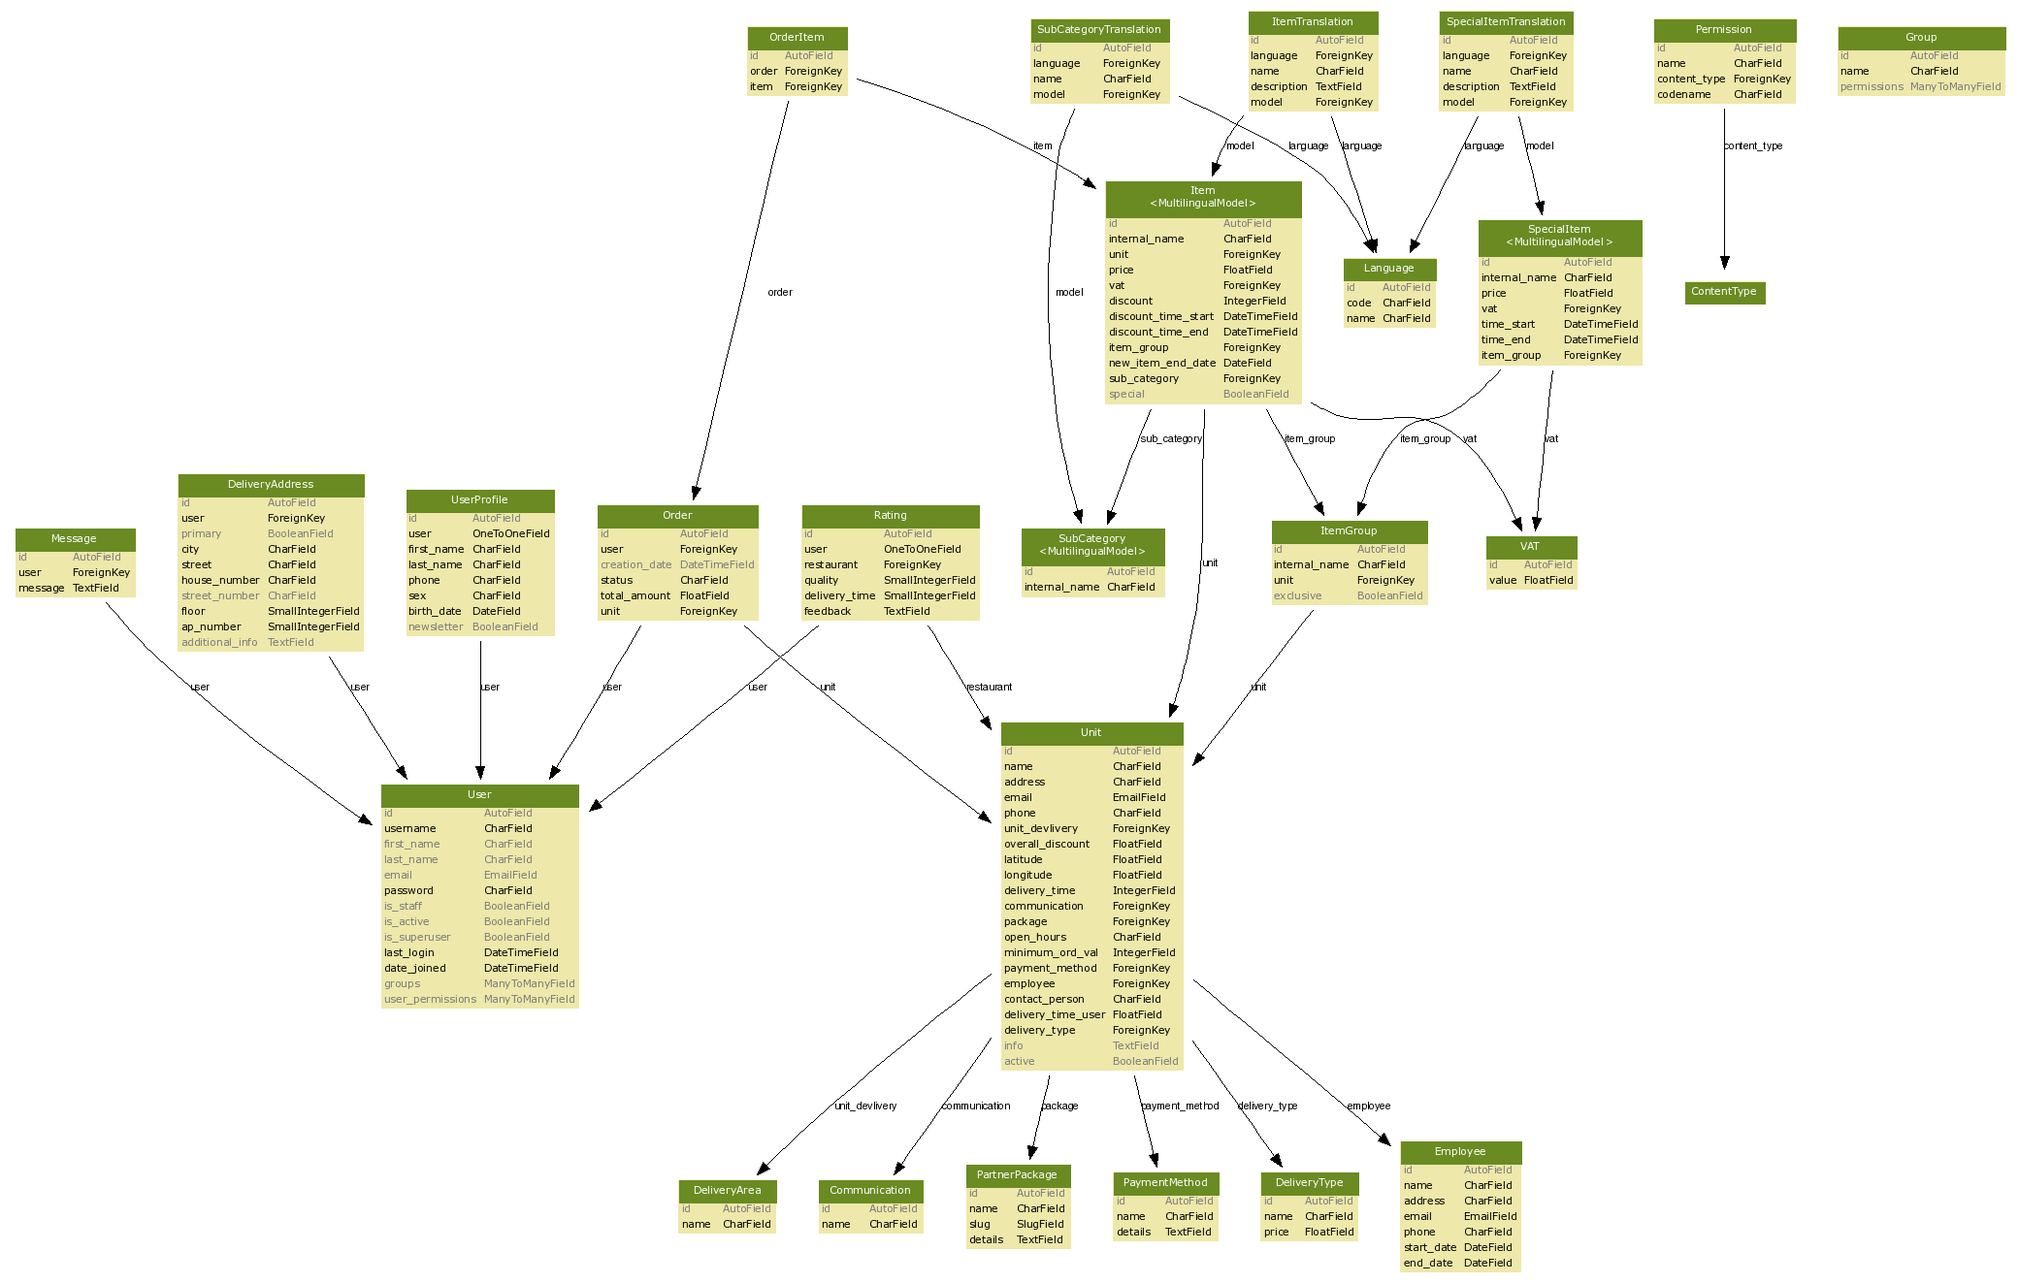
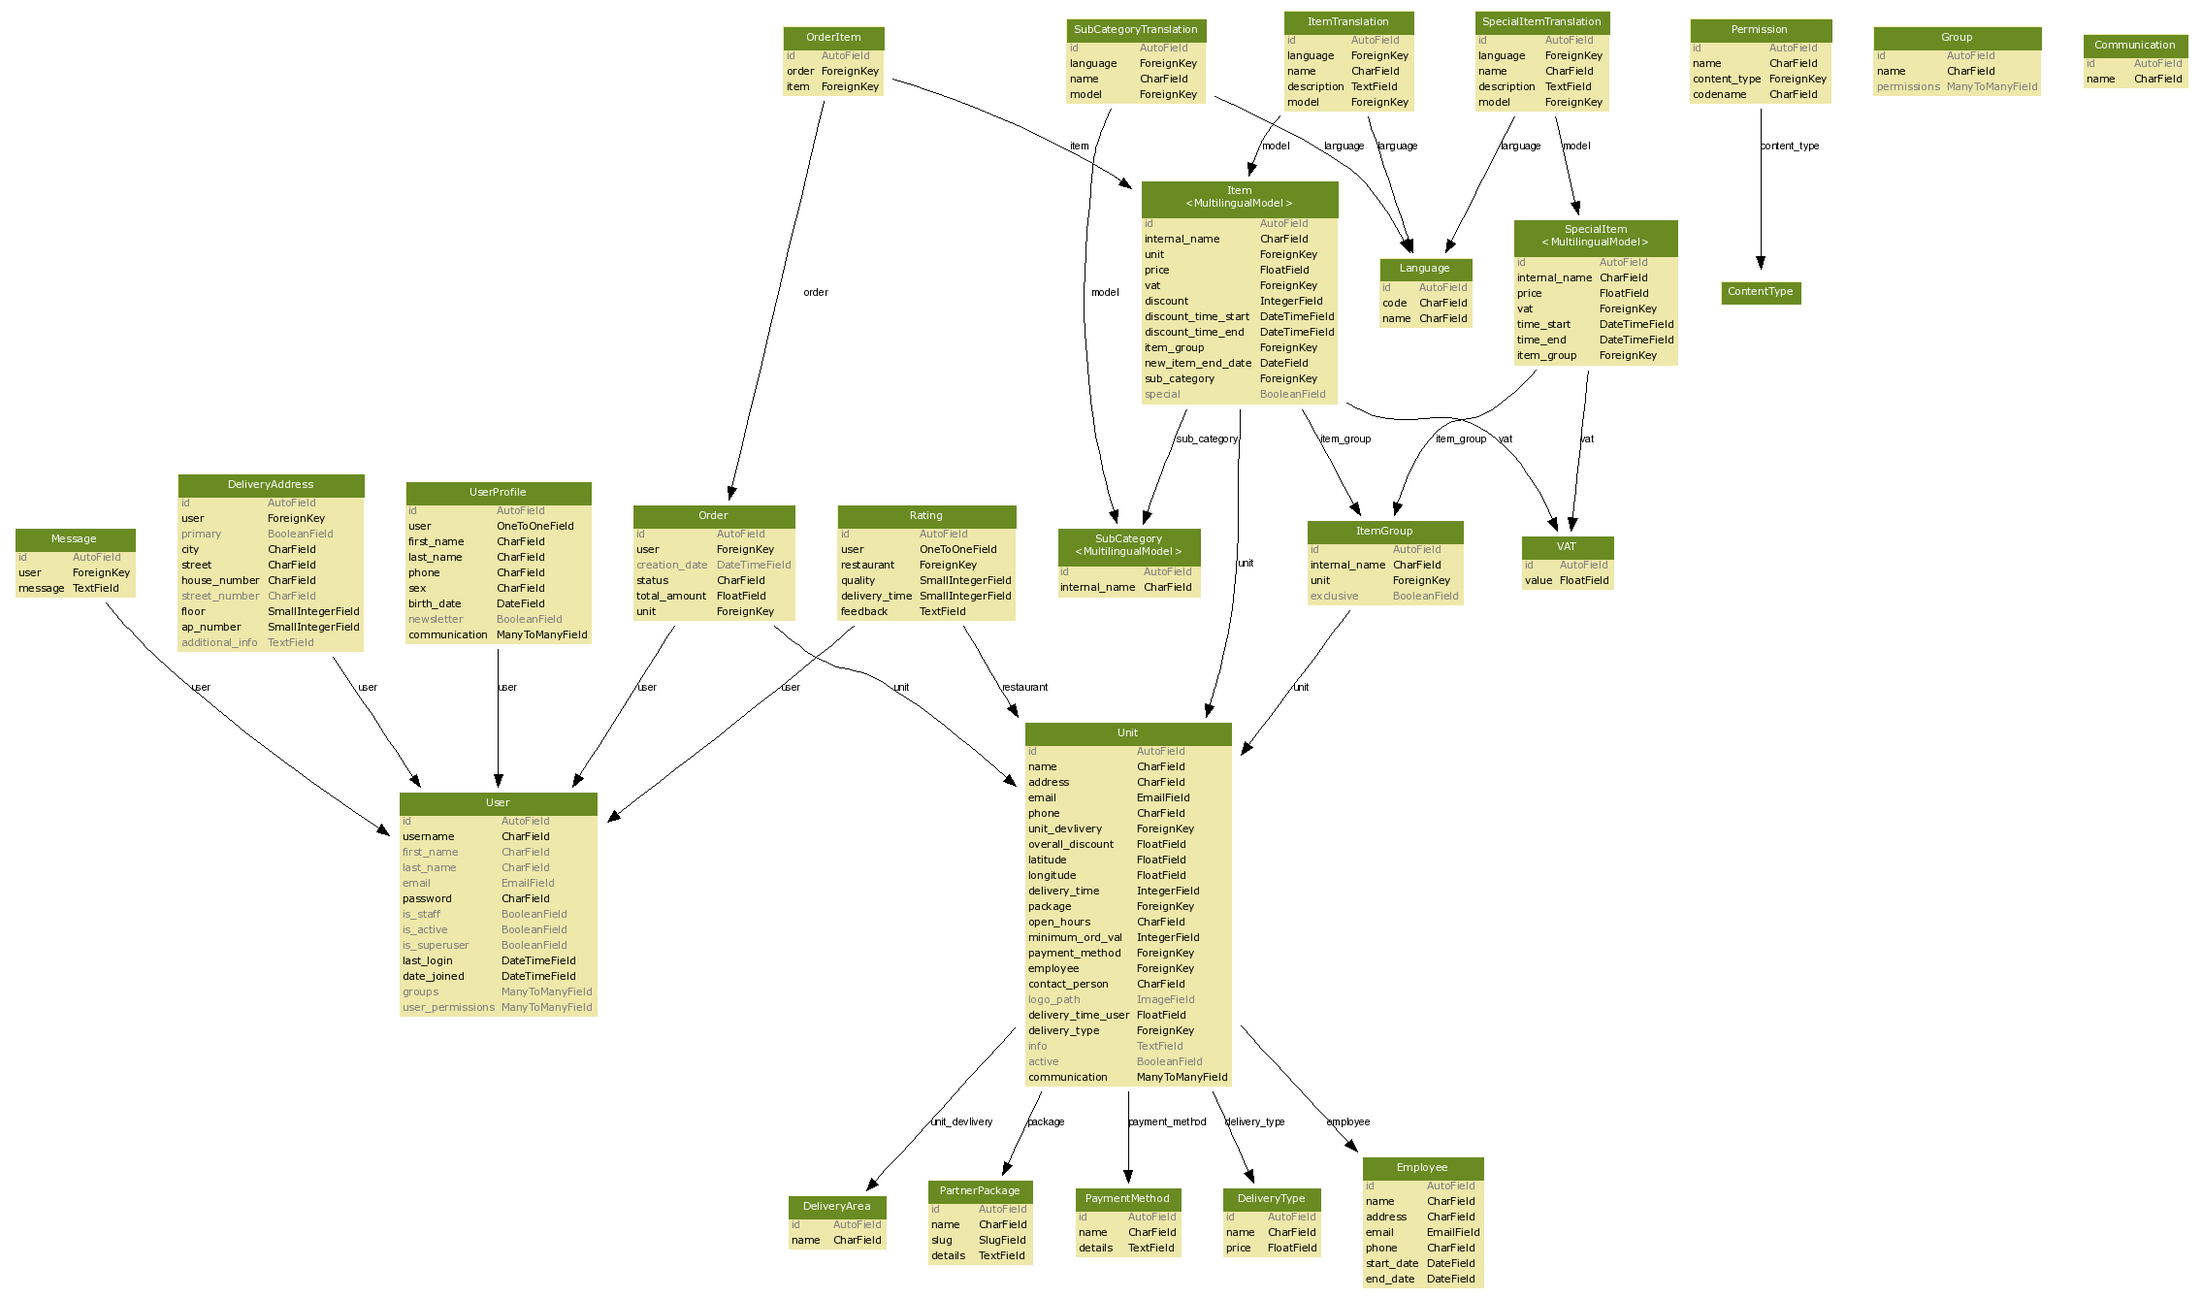
communicatioon for users

diff --git a/templates/profiles/profile_detail.html b/templates/profiles/profile_detail.html
@@ -10,6 +10,7 @@
 <li>{% trans 'Phone' %}: {{ profile.phone }}</li>
 <li>{% trans 'Sex' %}: {{ profile.sex }}</li>
 <li>{% trans 'Newsletter' %}: {{ profile.newsletter }}</li>
+<li>{% trans 'Communication' %}: {% for com in profile.communication.iterator %}{{ com.name }} {% endfor %}</li>
 </ul>
 
 <a href="{% url profiles_edit_profile %}">Edit</a><nbsp>

diff --git a/restaurant/migrations/0005_auto__del_field_unit_communication.py b/restaurant/migrations/0005_auto__del_field_unit_communication.py
@@ -1,0 +1,144 @@
+# encoding: utf-8
+import datetime
+from south.db import db
+from south.v2 import SchemaMigration
+from django.db import models
+
+class Migration(SchemaMigration):
+
+    def forwards(self, orm):
+        
+        # Deleting field 'Unit.communication'
+        db.delete_column('restaurant_unit', 'communication_id')
+
+        # Adding M2M table for field communication on 'Unit'
+        db.create_table('restaurant_unit_communication', (
+            ('id', models.AutoField(verbose_name='ID', primary_key=True, auto_created=True)),
+            ('unit', models.ForeignKey(orm['restaurant.unit'], null=False)),
+            ('communication', models.ForeignKey(orm['restaurant.communication'], null=False))
+        ))
+        db.create_unique('restaurant_unit_communication', ['unit_id', 'communication_id'])
+
+
+    def backwards(self, orm):
+        
+        # Adding field 'Unit.communication'
+        db.add_column('restaurant_unit', 'communication', self.gf('django.db.models.fields.related.ForeignKey')(default=1, to=orm['restaurant.Communication']), keep_default=False)
+
+        # Removing M2M table for field communication on 'Unit'
+        db.delete_table('restaurant_unit_communication')
+
+
+    models = {
+        'auth.group': {
+            'Meta': {'object_name': 'Group'},
+            'id': ('django.db.models.fields.AutoField', [], {'primary_key': 'True'}),
+            'name': ('django.db.models.fields.CharField', [], {'unique': 'True', 'max_length': '80'}),
+            'permissions': ('django.db.models.fields.related.ManyToManyField', [], {'to': "orm['auth.Permission']", 'symmetrical': 'False', 'blank': 'True'})
+        },
+        'auth.permission': {
+            'Meta': {'ordering': "('content_type__app_label', 'content_type__model', 'codename')", 'unique_together': "(('content_type', 'codename'),)", 'object_name': 'Permission'},
+            'codename': ('django.db.models.fields.CharField', [], {'max_length': '100'}),
+            'content_type': ('django.db.models.fields.related.ForeignKey', [], {'to': "orm['contenttypes.ContentType']"}),
+            'id': ('django.db.models.fields.AutoField', [], {'primary_key': 'True'}),
+            'name': ('django.db.models.fields.CharField', [], {'max_length': '50'})
+        },
+        'auth.user': {
+            'Meta': {'object_name': 'User'},
+            'date_joined': ('django.db.models.fields.DateTimeField', [], {'default': 'datetime.datetime.now'}),
+            'email': ('django.db.models.fields.EmailField', [], {'max_length': '75', 'blank': 'True'}),
+            'first_name': ('django.db.models.fields.CharField', [], {'max_length': '30', 'blank': 'True'}),
+            'groups': ('django.db.models.fields.related.ManyToManyField', [], {'to': "orm['auth.Group']", 'symmetrical': 'False', 'blank': 'True'}),
+            'id': ('django.db.models.fields.AutoField', [], {'primary_key': 'True'}),
+            'is_active': ('django.db.models.fields.BooleanField', [], {'default': 'True'}),
+            'is_staff': ('django.db.models.fields.BooleanField', [], {'default': 'False'}),
+            'is_superuser': ('django.db.models.fields.BooleanField', [], {'default': 'False'}),
+            'last_login': ('django.db.models.fields.DateTimeField', [], {'default': 'datetime.datetime.now'}),
+            'last_name': ('django.db.models.fields.CharField', [], {'max_length': '30', 'blank': 'True'}),
+            'password': ('django.db.models.fields.CharField', [], {'max_length': '128'}),
+            'user_permissions': ('django.db.models.fields.related.ManyToManyField', [], {'to': "orm['auth.Permission']", 'symmetrical': 'False', 'blank': 'True'}),
+            'username': ('django.db.models.fields.CharField', [], {'unique': 'True', 'max_length': '30'})
+        },
+        'contenttypes.contenttype': {
+            'Meta': {'ordering': "('name',)", 'unique_together': "(('app_label', 'model'),)", 'object_name': 'ContentType', 'db_table': "'django_content_type'"},
+            'app_label': ('django.db.models.fields.CharField', [], {'max_length': '100'}),
+            'id': ('django.db.models.fields.AutoField', [], {'primary_key': 'True'}),
+            'model': ('django.db.models.fields.CharField', [], {'max_length': '100'}),
+            'name': ('django.db.models.fields.CharField', [], {'max_length': '100'})
+        },
+        'restaurant.communication': {
+            'Meta': {'object_name': 'Communication'},
+            'id': ('django.db.models.fields.AutoField', [], {'primary_key': 'True'}),
+            'name': ('django.db.models.fields.CharField', [], {'max_length': '200'})
+        },
+        'restaurant.deliveryarea': {
+            'Meta': {'object_name': 'DeliveryArea'},
+            'id': ('django.db.models.fields.AutoField', [], {'primary_key': 'True'}),
+            'name': ('django.db.models.fields.CharField', [], {'max_length': '200'})
+        },
+        'restaurant.deliverytype': {
+            'Meta': {'object_name': 'DeliveryType'},
+            'id': ('django.db.models.fields.AutoField', [], {'primary_key': 'True'}),
+            'name': ('django.db.models.fields.CharField', [], {'max_length': '100'}),
+            'price': ('django.db.models.fields.FloatField', [], {})
+        },
+        'restaurant.employee': {
+            'Meta': {'object_name': 'Employee'},
+            'address': ('django.db.models.fields.CharField', [], {'max_length': '200'}),
+            'email': ('django.db.models.fields.EmailField', [], {'max_length': '75'}),
+            'end_date': ('django.db.models.fields.DateField', [], {}),
+            'id': ('django.db.models.fields.AutoField', [], {'primary_key': 'True'}),
+            'name': ('django.db.models.fields.CharField', [], {'max_length': '100'}),
+            'phone': ('django.db.models.fields.CharField', [], {'max_length': '15'}),
+            'start_date': ('django.db.models.fields.DateField', [], {})
+        },
+        'restaurant.partnerpackage': {
+            'Meta': {'object_name': 'PartnerPackage'},
+            'details': ('django.db.models.fields.TextField', [], {}),
+            'id': ('django.db.models.fields.AutoField', [], {'primary_key': 'True'}),
+            'name': ('django.db.models.fields.CharField', [], {'max_length': '100'}),
+            'slug': ('django.db.models.fields.SlugField', [], {'max_length': '50', 'db_index': 'True'})
+        },
+        'restaurant.paymentmethod': {
+            'Meta': {'object_name': 'PaymentMethod'},
+            'details': ('django.db.models.fields.TextField', [], {}),
+            'id': ('django.db.models.fields.AutoField', [], {'primary_key': 'True'}),
+            'name': ('django.db.models.fields.CharField', [], {'max_length': '100'})
+        },
+        'restaurant.rating': {
+            'Meta': {'object_name': 'Rating'},
+            'delivery_time': ('django.db.models.fields.SmallIntegerField', [], {}),
+            'feedback': ('django.db.models.fields.TextField', [], {}),
+            'id': ('django.db.models.fields.AutoField', [], {'primary_key': 'True'}),
+            'quality': ('django.db.models.fields.SmallIntegerField', [], {}),
+            'restaurant': ('django.db.models.fields.related.ForeignKey', [], {'to': "orm['restaurant.Unit']"}),
+            'user': ('django.db.models.fields.related.OneToOneField', [], {'to': "orm['auth.User']", 'unique': 'True'})
+        },
+        'restaurant.unit': {
+            'Meta': {'object_name': 'Unit'},
+            'active': ('django.db.models.fields.BooleanField', [], {'default': 'True'}),
+            'address': ('django.db.models.fields.CharField', [], {'max_length': '200'}),
+            'communication': ('django.db.models.fields.related.ManyToManyField', [], {'to': "orm['restaurant.Communication']", 'symmetrical': 'False'}),
+            'contact_person': ('django.db.models.fields.CharField', [], {'max_length': '50'}),
+            'delivery_time': ('django.db.models.fields.IntegerField', [], {}),
+            'delivery_time_user': ('django.db.models.fields.FloatField', [], {}),
+            'delivery_type': ('django.db.models.fields.related.ForeignKey', [], {'to': "orm['restaurant.DeliveryType']"}),
+            'email': ('django.db.models.fields.EmailField', [], {'max_length': '75'}),
+            'employee': ('django.db.models.fields.related.ForeignKey', [], {'to': "orm['restaurant.Employee']"}),
+            'id': ('django.db.models.fields.AutoField', [], {'primary_key': 'True'}),
+            'info': ('django.db.models.fields.TextField', [], {'null': 'True', 'blank': 'True'}),
+            'latitude': ('django.db.models.fields.FloatField', [], {}),
+            'logo_path': ('django.db.models.fields.files.ImageField', [], {'max_length': '100', 'null': 'True', 'blank': 'True'}),
+            'longitude': ('django.db.models.fields.FloatField', [], {}),
+            'minimum_ord_val': ('django.db.models.fields.IntegerField', [], {}),
+            'name': ('django.db.models.fields.CharField', [], {'max_length': '50'}),
+            'open_hours': ('django.db.models.fields.CharField', [], {'max_length': '10'}),
+            'overall_discount': ('django.db.models.fields.FloatField', [], {}),
+            'package': ('django.db.models.fields.related.ForeignKey', [], {'to': "orm['restaurant.PartnerPackage']"}),
+            'payment_method': ('django.db.models.fields.related.ForeignKey', [], {'to': "orm['restaurant.PaymentMethod']"}),
+            'phone': ('django.db.models.fields.CharField', [], {'max_length': '15'}),
+            'unit_devlivery': ('django.db.models.fields.related.ForeignKey', [], {'to': "orm['restaurant.DeliveryArea']"})
+        }
+    }
+
+    complete_apps = ['restaurant']

diff --git a/userprofiles/migrations/0003_auto.py b/userprofiles/migrations/0003_auto.py
@@ -1,0 +1,95 @@
+# encoding: utf-8
+import datetime
+from south.db import db
+from south.v2 import SchemaMigration
+from django.db import models
+
+class Migration(SchemaMigration):
+
+    def forwards(self, orm):
+        
+        # Adding M2M table for field communication on 'UserProfile'
+        db.create_table('userprofiles_userprofile_communication', (
+            ('id', models.AutoField(verbose_name='ID', primary_key=True, auto_created=True)),
+            ('userprofile', models.ForeignKey(orm['userprofiles.userprofile'], null=False)),
+            ('communication', models.ForeignKey(orm['restaurant.communication'], null=False))
+        ))
+        db.create_unique('userprofiles_userprofile_communication', ['userprofile_id', 'communication_id'])
+
+
+    def backwards(self, orm):
+        
+        # Removing M2M table for field communication on 'UserProfile'
+        db.delete_table('userprofiles_userprofile_communication')
+
+
+    models = {
+        'auth.group': {
+            'Meta': {'object_name': 'Group'},
+            'id': ('django.db.models.fields.AutoField', [], {'primary_key': 'True'}),
+            'name': ('django.db.models.fields.CharField', [], {'unique': 'True', 'max_length': '80'}),
+            'permissions': ('django.db.models.fields.related.ManyToManyField', [], {'to': "orm['auth.Permission']", 'symmetrical': 'False', 'blank': 'True'})
+        },
+        'auth.permission': {
+            'Meta': {'ordering': "('content_type__app_label', 'content_type__model', 'codename')", 'unique_together': "(('content_type', 'codename'),)", 'object_name': 'Permission'},
+            'codename': ('django.db.models.fields.CharField', [], {'max_length': '100'}),
+            'content_type': ('django.db.models.fields.related.ForeignKey', [], {'to': "orm['contenttypes.ContentType']"}),
+            'id': ('django.db.models.fields.AutoField', [], {'primary_key': 'True'}),
+            'name': ('django.db.models.fields.CharField', [], {'max_length': '50'})
+        },
+        'auth.user': {
+            'Meta': {'object_name': 'User'},
+            'date_joined': ('django.db.models.fields.DateTimeField', [], {'default': 'datetime.datetime.now'}),
+            'email': ('django.db.models.fields.EmailField', [], {'max_length': '75', 'blank': 'True'}),
+            'first_name': ('django.db.models.fields.CharField', [], {'max_length': '30', 'blank': 'True'}),
+            'groups': ('django.db.models.fields.related.ManyToManyField', [], {'to': "orm['auth.Group']", 'symmetrical': 'False', 'blank': 'True'}),
+            'id': ('django.db.models.fields.AutoField', [], {'primary_key': 'True'}),
+            'is_active': ('django.db.models.fields.BooleanField', [], {'default': 'True'}),
+            'is_staff': ('django.db.models.fields.BooleanField', [], {'default': 'False'}),
+            'is_superuser': ('django.db.models.fields.BooleanField', [], {'default': 'False'}),
+            'last_login': ('django.db.models.fields.DateTimeField', [], {'default': 'datetime.datetime.now'}),
+            'last_name': ('django.db.models.fields.CharField', [], {'max_length': '30', 'blank': 'True'}),
+            'password': ('django.db.models.fields.CharField', [], {'max_length': '128'}),
+            'user_permissions': ('django.db.models.fields.related.ManyToManyField', [], {'to': "orm['auth.Permission']", 'symmetrical': 'False', 'blank': 'True'}),
+            'username': ('django.db.models.fields.CharField', [], {'unique': 'True', 'max_length': '30'})
+        },
+        'contenttypes.contenttype': {
+            'Meta': {'ordering': "('name',)", 'unique_together': "(('app_label', 'model'),)", 'object_name': 'ContentType', 'db_table': "'django_content_type'"},
+            'app_label': ('django.db.models.fields.CharField', [], {'max_length': '100'}),
+            'id': ('django.db.models.fields.AutoField', [], {'primary_key': 'True'}),
+            'model': ('django.db.models.fields.CharField', [], {'max_length': '100'}),
+            'name': ('django.db.models.fields.CharField', [], {'max_length': '100'})
+        },
+        'restaurant.communication': {
+            'Meta': {'object_name': 'Communication'},
+            'id': ('django.db.models.fields.AutoField', [], {'primary_key': 'True'}),
+            'name': ('django.db.models.fields.CharField', [], {'max_length': '200'})
+        },
+        'userprofiles.deliveryaddress': {
+            'Meta': {'object_name': 'DeliveryAddress'},
+            'additional_info': ('django.db.models.fields.TextField', [], {'null': 'True', 'blank': 'True'}),
+            'ap_number': ('django.db.models.fields.SmallIntegerField', [], {}),
+            'city': ('django.db.models.fields.CharField', [], {'max_length': '50'}),
+            'floor': ('django.db.models.fields.SmallIntegerField', [], {}),
+            'house_number': ('django.db.models.fields.CharField', [], {'max_length': '5'}),
+            'id': ('django.db.models.fields.AutoField', [], {'primary_key': 'True'}),
+            'primary': ('django.db.models.fields.BooleanField', [], {'default': 'False'}),
+            'street': ('django.db.models.fields.CharField', [], {'max_length': '50'}),
+            'street_number': ('django.db.models.fields.CharField', [], {'max_length': '5', 'null': 'True', 'blank': 'True'}),
+            'user': ('django.db.models.fields.related.ForeignKey', [], {'to': "orm['auth.User']"})
+        },
+        'userprofiles.userprofile': {
+            'Meta': {'object_name': 'UserProfile'},
+            'birth_date': ('django.db.models.fields.DateField', [], {}),
+            'communication': ('django.db.models.fields.related.ManyToManyField', [], {'to': "orm['restaurant.Communication']", 'symmetrical': 'False'}),
+            'first_name': ('django.db.models.fields.CharField', [], {'max_length': '50'}),
+            'id': ('django.db.models.fields.AutoField', [], {'primary_key': 'True'}),
+            'last_name': ('django.db.models.fields.CharField', [], {'max_length': '50'}),
+            'newsletter': ('django.db.models.fields.BooleanField', [], {'default': 'False'}),
+            'phone': ('django.db.models.fields.CharField', [], {'max_length': '15'}),
+            'sex': ('django.db.models.fields.CharField', [], {'max_length': '1'}),
+            'user': ('django.db.models.fields.related.OneToOneField', [], {'to': "orm['auth.User']", 'unique': 'True'})
+        }
+    }
+
+    complete_apps = ['userprofiles']

diff --git a/restaurant/models.py b/restaurant/models.py
@@ -81,7 +81,7 @@ class Unit(models.Model):
     latitude = models.FloatField(_('latitude'))
     longitude = models.FloatField(_('longitude'))
     delivery_time = models.IntegerField(_('delivery time'))
-    communication = models.ForeignKey(Communication, verbose_name=_('communication'))
+    communication = models.ManyToManyField(Communication, verbose_name=_('communication'))
     package = models.ForeignKey(PartnerPackage, verbose_name=_('package'))
     open_hours = models.CharField(_('open_hours'), max_length=10)
     minimum_ord_val = models.IntegerField(_('minimum order value'))

diff --git a/userprofiles/models.py b/userprofiles/models.py
@@ -50,6 +50,7 @@ class UserProfile(models.Model):
     sex = models.CharField(_('sex'), max_length=1, choices=GENDER_CHOICES)
     birth_date = models.DateField(_('birth date'))
     newsletter = models.BooleanField(_('newsletter'), help_text=_("Do you want to receive our newsletter?"))
+    communication = models.ManyToManyField('restaurant.Communication', verbose_name=_('communication'))
   
     def __unicode__(self):
         return self.first_name + " " + self.last_name
